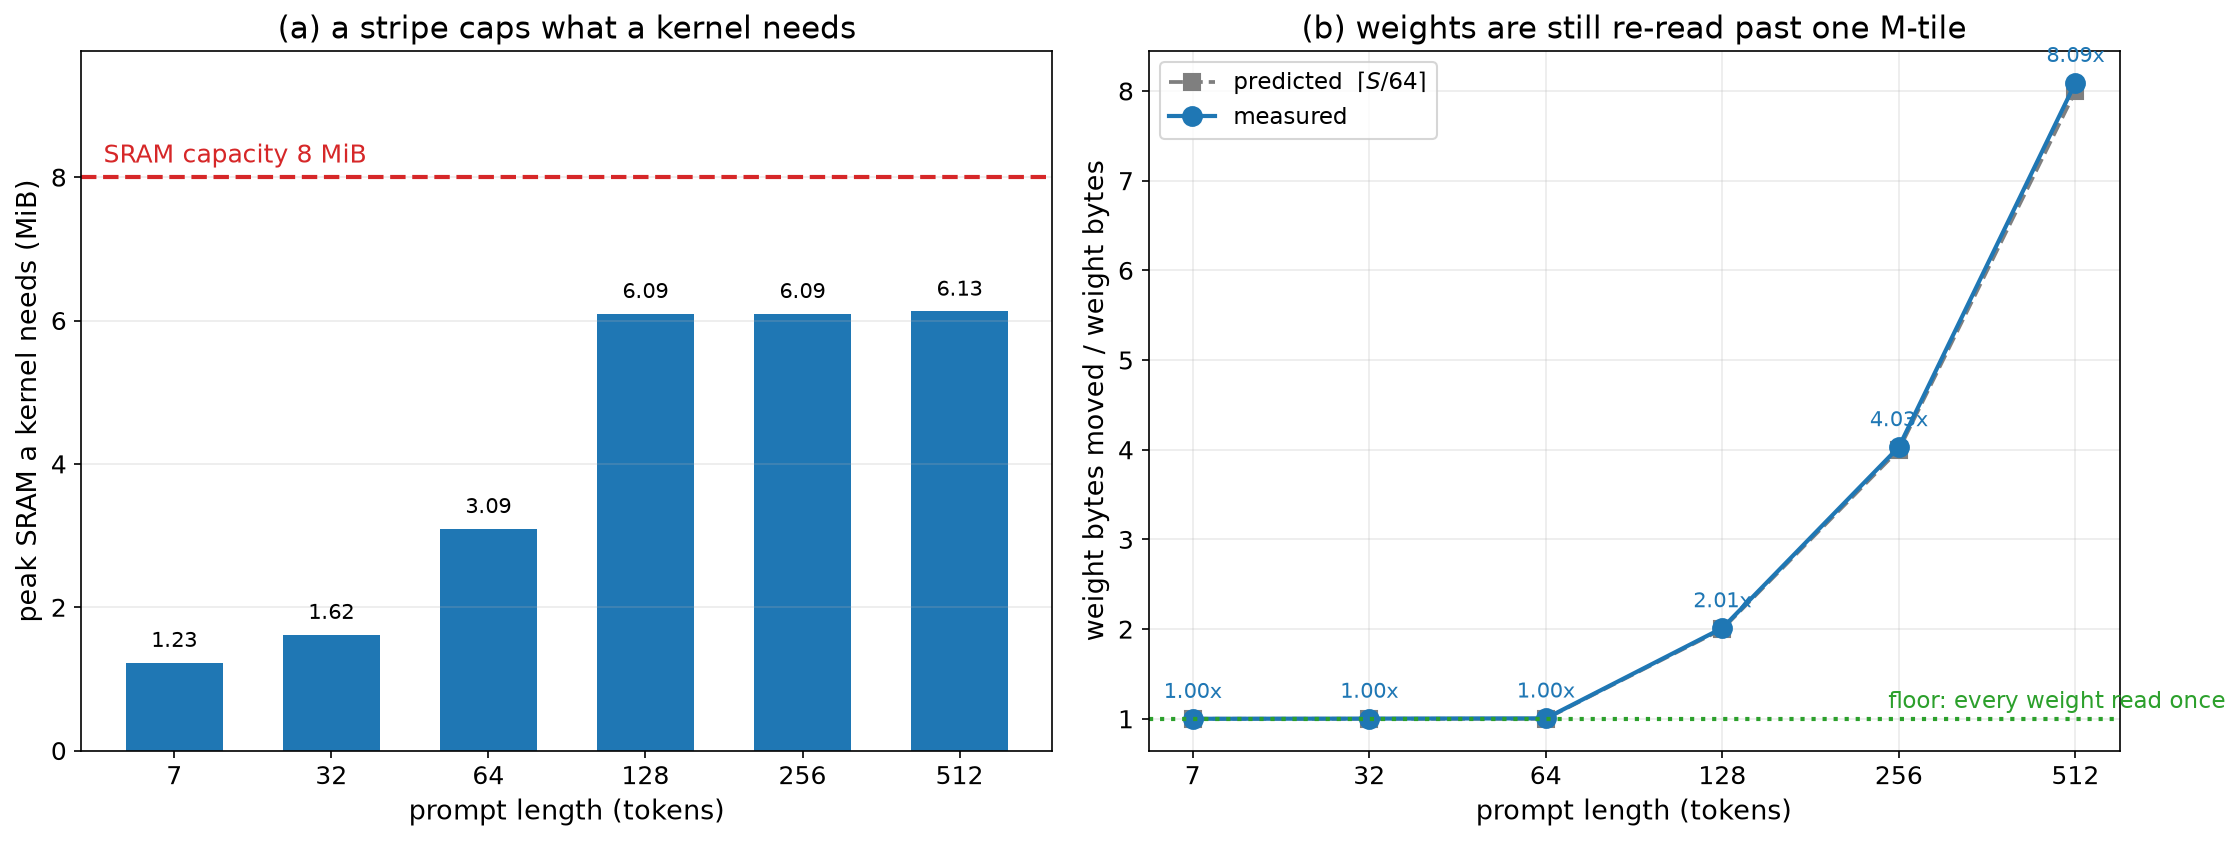
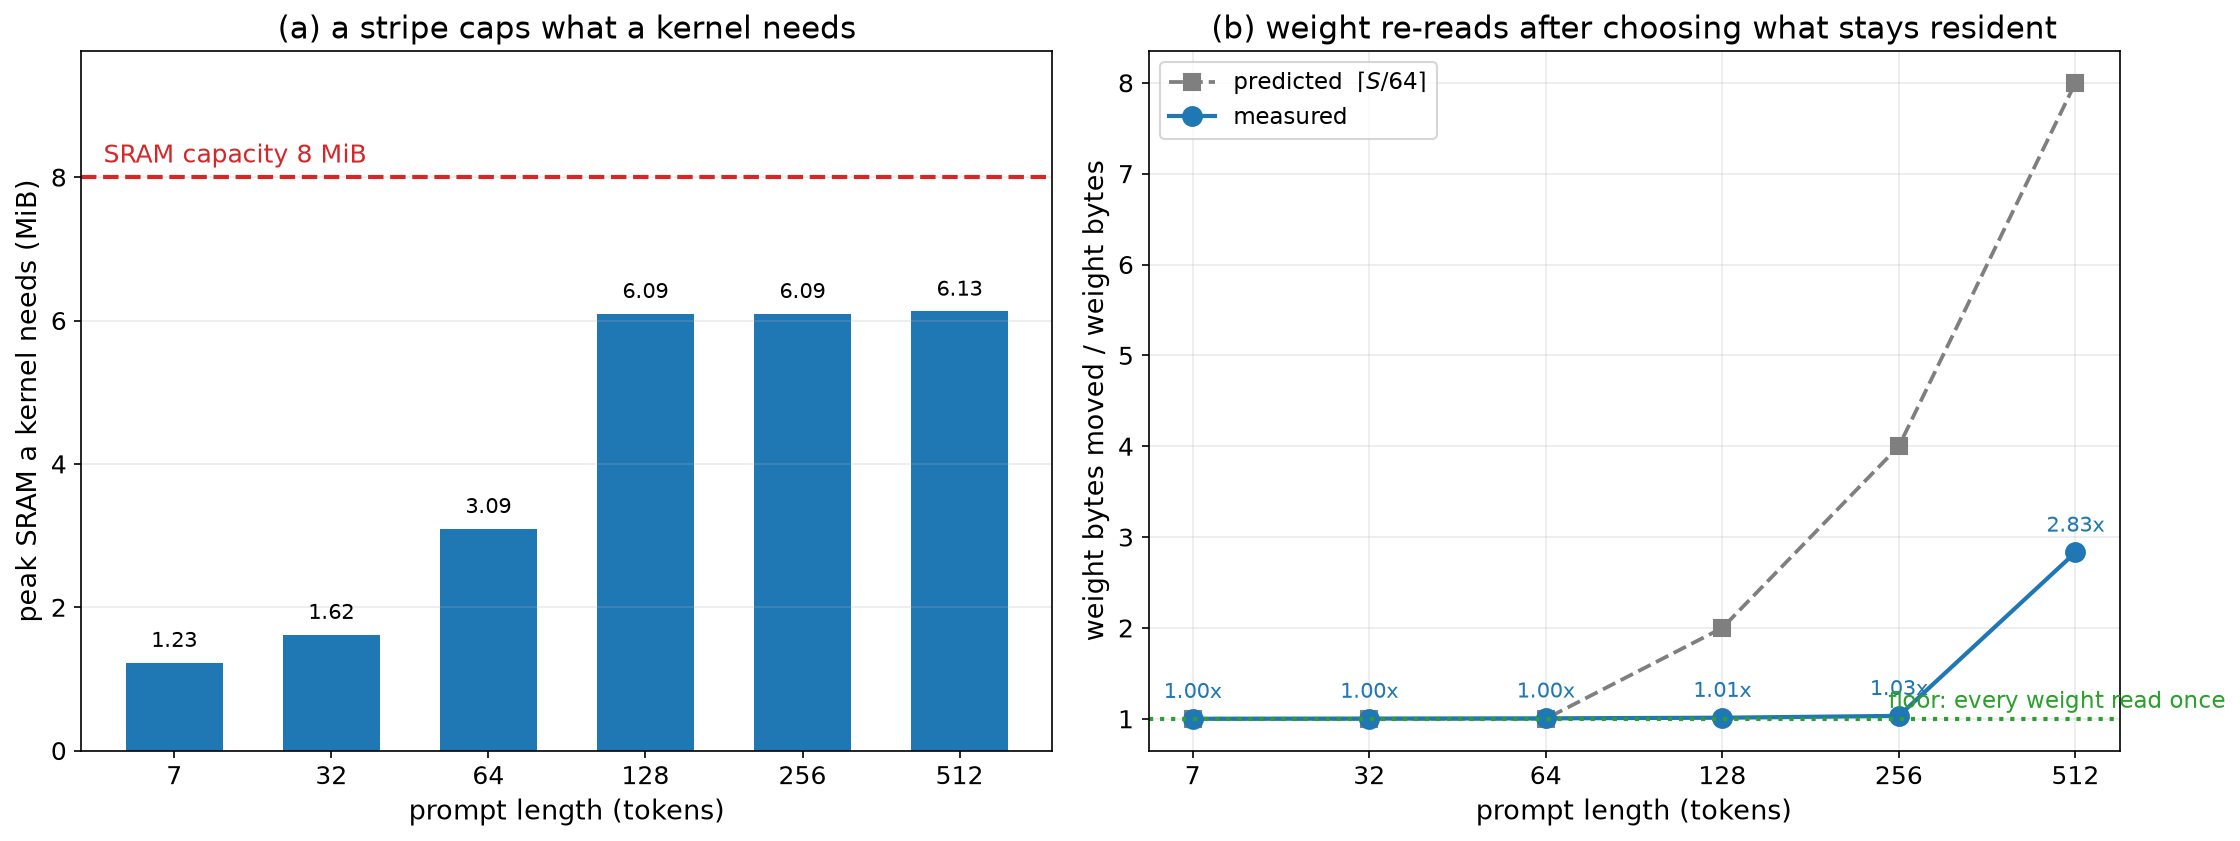
choose which matmul operand stays in SRAM
Both operands were staged at the reduction loop, which is the smallest
footprint and the most re-reads: a kernel used 0.02 MiB of the 8 MiB while
re-reading its activation ceil(N/64) times and its weight ceil(M/64) times.

The hardware settles most of the decision.  One FP32 accumulator means k has
to stay innermost to keep a C tile's MAC chain unbroken, so the only freedom
left is the order of the two outer loops -- which is the same as choosing
which operand is invariant inside and therefore read once.  Three candidates,
each with a closed-form traffic, so _matmul_mapping compares them instead of
searching:

  both at k_o        A: M*K*ceil(N/64)   B: K*N*ceil(M/64)
  input-stationary   A: M*K (once)       B: K*N*ceil(M/Tm)
  weight-stationary  A: M*K*ceil(N/Tn)   B: K*N (once)

The panel size comes from the same feedback loop the stripe uses: start at the
largest, measure the real placement after the TIR passes, halve on overflow.
Below a tile it falls back to the old schedule, which stages one tile of each
and so always fits -- a panel that will not fit is never a link failure.

When M is not a multiple of the tile the mapping is left alone: pad_einsum
already leaves the padded operand resident, so there is nothing to win.  That
is why all four full-depth gates, which run at seq=7, are untouched -- Llama
still links to 15,285,893 words, token 358, cosine 0.9999927.

Measured on one real Llama layer:

  seq   traffic            weight              per token   words
[…]

diff --git a/d_compiler/npu_compiler/npu_link.py b/d_compiler/npu_compiler/npu_link.py
@@ -43,7 +43,7 @@ def _is_matmul(prim):
     return bool(found)
 
 
-def _schedule(module, gvar, prim, tile=64, stripe=None):
+def _schedule(module, gvar, prim, tile=64, stripe=None, mapping=None):
     """Apply the NPU schedule this kernel needs; every kernel ends up staged.
 
     ``stripe`` narrows a non-matmul kernel to that many result rows at a time;
@@ -52,7 +52,9 @@ def _schedule(module, gvar, prim, tile=64, stripe=None):
     name = gvar.name_hint
     try:
         if _is_matmul(prim):
-            scheduled = npu_intrin.schedule_matmul_sram(module, name, tile)
+            hold, panel = mapping if mapping else (None, None)
+            scheduled = npu_intrin.schedule_matmul_sram(module, name, tile,
+                                                        hold, panel)
         elif stripe is None:
             scheduled = npu_intrin.schedule_generic_sram(module, name)
         else:
@@ -166,6 +168,88 @@ def _collect_constants(prim):
     return values
 
 
+def _measure(planned, gvar, prim, profile, scratch_base, slot_count,
+             stripe=None, mapping=None):
+    """Schedule a kernel and report (scheduled, scratch row, buffers, top)."""
+    scheduled = _schedule(planned, gvar, prim, profile.tile, stripe, mapping)
+    elems = _scratch_row(scheduled)
+    buffers = _sram_buffers(scheduled)
+    start = scratch_base + slot_count * elems * 4
+    _, top = _place_sram(buffers, start)
+    return scheduled, elems, buffers, top
+
+
+def _fit_matmul(planned, gvar, prim, profile, scratch_base, slot_count):
+    """Pick the matmul's mapping, narrowing the resident panel until it fits.
+
+    Falling back to the whole-tile schedule is always available -- it stages
+    one tile of each operand, so it fits any budget -- which is why a panel
+    that will not fit is never a link failure here.
+    """
+    budget = profile.sram_nibbles - scratch_base
+    mapping = _matmul_mapping(planned, gvar, profile, budget // 2)
+    while mapping is not None:
+        try:
+            scheduled, elems, buffers, top = _measure(
+                planned, gvar, prim, profile, scratch_base, slot_count,
+                mapping=mapping)
+        except LinkError:
+            break                      # this mapping does not schedule here
+        if top <= profile.sram_nibbles:
+            return scheduled, elems, buffers
+        hold, panel = mapping
+        panel //= 2
+        mapping = (hold, panel) if panel >= profile.tile else None
+    scheduled, elems, buffers, top = _measure(
+        planned, gvar, prim, profile, scratch_base, slot_count)
+    if top > profile.sram_nibbles:
+        raise LinkError(f"{gvar.name_hint}: needs "
+                        f"{top / 2 / 1024 / 1024:.2f} MiB of SRAM")
+    return scheduled, elems, buffers
+
+
+def _matmul_mapping(planned, gvar, profile, budget):
+    """Which operand to keep in SRAM for this matmul, and how much of it.
+
+    The PE tile is fixed and there is one accumulator, so k stays innermost
+    and the only choice left is the order of the two outer loops -- which is
+    the same as choosing which operand is invariant inside, and so read once.
+    Both candidates have a closed-form traffic, so this compares them rather
+    than searching.
+
+    Returns None to keep the whole-tile schedule.  That is the answer whenever
+    M is not a multiple of the tile: pad_einsum then leaves the padded operand
+    resident in SRAM already, so there is nothing left to win.
+    """
+    extents = npu_intrin.matmul_extents(planned, gvar.name_hint)
+    if extents is None:
+        return None
+    rows, cols, depth = extents
+    tile = profile.tile
+    if rows % tile:
+        return None
+    itemsize = 2
+    # the streamed operand still needs a [depth, tile] panel, and the result
+    # one tile; what is left is what the resident operand may use
+    room = budget - (depth * tile + tile * tile) * itemsize
+    if room <= 0:
+        return None
+    span = max(tile, room // (depth * itemsize) // tile * tile)
+
+    def ceil_div(a, b):
+        return -(-a // b)
+
+    now = rows * depth * ceil_div(cols, tile) + depth * cols * ceil_div(rows, tile)
+    hold_a = rows * depth + depth * cols * ceil_div(rows, min(span, rows))
+    hold_b = depth * cols + rows * depth * ceil_div(cols, min(span, cols))
+    best = min(now, hold_a, hold_b)
+    if best == now:
+        return None
+    if best == hold_a:
+        return "A", min(span, rows)
+    return "B", min(span, cols)
+
+
 def _fit_kernel(planned, gvar, prim, profile, scratch_base, slot_count):
     """Schedule a kernel, narrowing its stripe until its buffers fit SRAM.
 
@@ -176,6 +260,9 @@ def _fit_kernel(planned, gvar, prim, profile, scratch_base, slot_count):
     CompactBufferAllocation's shrinking and the kernel's scratch width are
     only known then.
     """
+    if _is_matmul(prim):
+        return _fit_matmul(planned, gvar, prim, profile, scratch_base,
+                           slot_count)
     stripe, rows = None, None
     while True:
         scheduled = _schedule(planned, gvar, prim, profile.tile, stripe)

diff --git a/d_compiler/npu_compiler/npu_intrin.py b/d_compiler/npu_compiler/npu_intrin.py
@@ -186,7 +186,20 @@ def _sram_gemm_impl(a: T.handle, b: T.handle, c: T.handle):
                                  B.access_ptr("r"), sb))
 
 
-def schedule_matmul_sram(mod, func_name, tile=64):
+def matmul_extents(mod, func_name):
+    """(M, N, K) of the kernel's matmul, or None if it has no three-loop nest."""
+    sch = tir.Schedule(mod)
+    try:
+        block = sch.get_block("matmul", func_name=func_name)
+    except Exception:
+        return None
+    loops = sch.get_loops(block)
+    if len(loops) < 3:
+        return None
+    return tuple(int(sch.get(loop).extent) for loop in loops[-3:])
+
+
+def schedule_matmul_sram(mod, func_name, tile=64, hold=None, panel=None):
     """Tile a legalized matmul and stage its operands into SRAM.
 
     The DMA that the hand-written backend inserts by hand is expressed here as
@@ -253,21 +266,48 @@ def schedule_matmul_sram(mod, func_name, tile=64):
         # would give the buffer two writers, which blocks cache_read)
         loops = sch.get_loops(block)
         i, j, k = loops[-3:]
-    i_o, i_i = sch.split(i, [None, tile])
-    j_o, j_i = sch.split(j, [None, tile])
-    k_o, k_i = sch.split(k, [None, tile])
-    sch.reorder(i_o, j_o, k_o, i_i, j_i, k_i)
+    # Where each operand is staged is the whole of the intra-op decision.  The
+    # PE tile is 64x64 and there is one accumulator, so k must stay innermost
+    # to keep a C tile's MAC chain unbroken; that leaves only the order of the
+    # two outer loops, and with it which operand is invariant inside.  Staging
+    # that one at the outer loop reads it once and streams the other past it.
+    if hold is None:
+        # both operands staged at the reduction loop: the smallest footprint
+        # and the most re-reads, and what every kernel got before a budget was
+        # available to say otherwise
+        i_o, i_i = sch.split(i, [None, tile])
+        j_o, j_i = sch.split(j, [None, tile])
+        k_o, k_i = sch.split(k, [None, tile])
+        sch.reorder(i_o, j_o, k_o, i_i, j_i, k_i)
+        staged_at, enclosing = (k_o, k_o), j_o
+    elif hold == "A":
+        # input-stationary: A[panel, K] is read once, B[K, tile] once per row
+        # block
+        m_b, i_r = sch.split(i, [None, panel])
+        i_o, i_i = sch.split(i_r, [None, tile])
+        j_o, j_i = sch.split(j, [None, tile])
+        k_o, k_i = sch.split(k, [None, tile])
+        sch.reorder(m_b, j_o, i_o, k_o, i_i, j_i, k_i)
+        staged_at, enclosing = (m_b, j_o), i_o
+    else:
+        # weight-stationary: the mirror image
+        n_b, j_r = sch.split(j, [None, panel])
+        j_o, j_i = sch.split(j_r, [None, tile])
+        i_o, i_i = sch.split(i, [None, tile])
+        k_o, k_i = sch.split(k, [None, tile])
+        sch.reorder(n_b, i_o, j_o, k_o, i_i, j_i, k_i)
+        staged_at, enclosing = (i_o, n_b), j_o
     write_back = sch.cache_write(block, 0, SRAM_SCOPE)
-    sch.reverse_compute_at(write_back, j_o)
+    sch.reverse_compute_at(write_back, enclosing)
     if unpad is not None:
         # otherwise the padded result stays live across the whole N axis, and
         # a wide output (lm_head is [64, 128256] once M is padded) does not fit
-        sch.reverse_compute_at(unpad, j_o)
+        sch.reverse_compute_at(unpad, enclosing)
     for index in (0, 1):
         if sch.get(block).reads[index].buffer.scope() == SRAM_SCOPE:
             continue                       # already staged (padded operand)
         stage = sch.cache_read(block, index, SRAM_SCOPE)
-        sch.compute_at(stage, k_o)
+        sch.compute_at(stage, staged_at[index])
     # a dequantized weight is a computed producer: without this it holds the
     # WHOLE weight in SRAM (18 MiB at real widths).  Tiling it into the
     # K-loop makes it -- and its int8/scale stages behind it -- one tile at a
@@ -280,9 +320,9 @@ def schedule_matmul_sram(mod, func_name, tile=64):
         dequant = None
     if dequant is not None:
         producers = list(sch.get_producers(dequant))
-        sch.compute_at(dequant, k_o)
+        sch.compute_at(dequant, staged_at[1])
         for producer in producers:
-            sch.compute_at(producer, k_o)
+            sch.compute_at(producer, staged_at[1])
     init = sch.decompose_reduction(block, k_o)
     sch.tensorize(sch.get_loops(block)[-3], "npu_gemm_acc_sram")
     sch.tensorize(sch.get_loops(init)[-2], "npu_fill_zero_sram")

diff --git a/report/figs/0901/plot_traffic.py b/report/figs/0901/plot_traffic.py
@@ -8,9 +8,11 @@ say 1,619,976,421 cells for the 28-layer program).
 The point of these two figures is that every gate we run is seq=7, and at that
 one point the compiler looks optimal: weights are read exactly once and
 activation round trips are 1% of traffic.  Neither stays true as the prompt
-grows.  SRAM occupancy used to grow with it too and stopped fitting at 256;
-striping the elementwise and normalisation kernels caps it at ~6.1 MiB, so
-what is left in these figures is traffic, not capacity.
+grows.  Two pieces of work have landed since the first version of these
+figures: striping the elementwise and normalisation kernels, which caps SRAM
+at ~6.1 MiB (it used to grow past 8 and stop linking at 256), and choosing
+which matmul operand stays resident, which is what pulled weight re-reads back
+towards one.
 
 Colours: categorical blue/green for the two traffic kinds that behave
 differently, red reserved for the capacity violation, grey for recessive
@@ -120,7 +122,7 @@ ax2.set_xticks(x)
 ax2.set_xticklabels(labels)
 ax2.set_xlabel("prompt length (tokens)")
 ax2.set_ylabel("MB moved per token  (log)")
-ax2.set_title("(b) cost per token — the gap is what SRAM planning would close")
+ax2.set_title("(b) cost per token now tracks the floor, until a panel stops fitting")
 ax2.legend()
 ax2.grid(alpha=0.25)
 
@@ -174,7 +176,7 @@ ax2.set_xticks(x)
 ax2.set_xticklabels(labels)
 ax2.set_xlabel("prompt length (tokens)")
 ax2.set_ylabel("weight bytes moved / weight bytes")
-ax2.set_title("(b) weights are still re-read past one M-tile")
+ax2.set_title("(b) weight re-reads after choosing what stays resident")
 ax2.legend(loc="upper left")
 ax2.grid(alpha=0.25)
 

diff --git a/d_compiler/tests/test_npu_link.py b/d_compiler/tests/test_npu_link.py
@@ -167,7 +167,9 @@ def test_tile_staging_uses_one_2d_transfer():
     multirow = [d for d in blocks if d["rows"] > 1]
     assert multirow, "tile staging fell back to one transfer per row"
     widest = max(d["rows"] for d in multirow)
-    assert widest == 64, widest
+    # at least a whole tile per instruction; the resident panel makes it more
+    # than a tile once the mapping keeps an operand in SRAM
+    assert widest >= 64, widest
     print(f"  [PASS] tile staging uses 2D transfers "
           f"({len(multirow)}/{len(blocks)} DMAs, up to {widest} rows each)")
 

diff --git a/report/report_0901.md b/report/report_0901.md
@@ -676,19 +676,17 @@ SRAM은 아예 안 들어가게 된다.**
 
 실 Llama 3.2 3B **한 층**, 프롬프트 길이별:
 
+아래는 세 결함을 진단할 당시의 실측이다(§15.4b·§15.4c에서 (A)와 (B)(C)를
+고친 뒤의 값은 §15.4c 표에 있다).
+
 | seq | weight 읽기 | activation 되읽기 | activation 쓰기 | 합 | SRAM peak |
 |---|---|---|---|---|---|
 | 7 | 203.0 MB | 1.9 MB | 1.7 MB | 207 MB | 1.23 MiB |
 | 32 | 203.4 | 9.0 | 7.9 | 220 | 1.62 |
 | 64 | 204.0 | **217.6** | 16.3 | 438 | 3.09 |
 | 128 | **408.3** | 439.6 | 34.1 | 882 | 6.09 |
-| 256 | 818.2 | 896.5 | 74.6 | 1,789 | 6.09 |
-| 512 | 1,642.6 | **1,862.3** | 174.3 | 3,679 | 6.13 |
-
-seq 256·512는 한때 **링크 자체가 실패**했다((A) 항목). stripe 스케줄을 넣은
-뒤로 SRAM peak이 **6.1 MiB에서 평평**해져 용량은 더 이상 제약이 아니다.
-그리고 seq 512에서는 **activation(2,037 MB)이 weight(1,643 MB)를 넘어선다** —
-활성화 트래픽만 S에 비례하기 때문이다.
+| 256 | — | — | — | — | **9.00 → 링크 실패** |
+| 512 | — | — | — | — | **9.04 → 링크 실패** |
 
 ![프롬프트 길이별 트래픽](figs/0901/g_traffic_by_seq.png)
 
@@ -809,6 +807,48 @@ s.t.       panel(Tm,Tn) + Σ 상주 텐서 + scratch ≤ 8 MiB
 `analyze_traffic.py`가 그 기준선이다 — 실행 없이 링크만으로 트래픽과 SRAM
 peak을 내므로 A/B에 쓸 수 있다.
 
+### 15.4c (B)(C) 해결 — matmul의 상주 피연산자 선택 (2026-09-07)
+
+`schedule_matmul_sram`은 두 피연산자를 **모두 최내곽(`k_o`)에 스테이징**했다.
+발자국은 최소(0.02 MiB)이고 재적재는 최대인 선택이다. 하드웨어가 나머지를
+정해 준다 — 누산기가 1개라 `k`가 최내곽이어야 하므로, 남는 자유도는 **바깥 두
+루프의 순서**뿐이고 그것이 곧 **어느 피연산자가 안쪽에서 불변인가**다.
+
+| 후보 | SRAM | A 트래픽 | B 트래픽 |
+|---|---|---|---|
+| 현재 (둘 다 `k_o`) | `2·(2·64²)` | `M·K·⌈N/64⌉` | `K·N·⌈M/64⌉` |
+| Input-Stationary | `2·(Tm·K + 64·K + 64²)` | `M·K` (1회) | `K·N·⌈M/Tm⌉` |
+| Weight-Stationary | `2·(K·Tn + 64·K + 64²)` | `M·K·⌈N/Tn⌉` | `K·N` (1회) |
+
+후보가 셋뿐이라 **탐색이 아니라 세 식의 비교**로 정한다(`_matmul_mapping`).
+패널 크기는 stripe와 같은 피드백 루프로 정한다 — 최대에서 시작해 **실제 배치를
+재어** 넘으면 절반으로 줄이고, 타일보다 작아지면 기존 스케줄로 되돌아간다
+(기존 스케줄은 타일 하나씩이라 **항상 들어가므로 실패가 없다**).
+
+**M이 64의 배수가 아니면 그대로 둔다.** `pad_einsum`이 패딩한 피연산자를 이미
+SRAM에 상주시키므로 얻을 게 없기 때문이다. seq=7인 전체 깊이 게이트 4종이
+**한 word도 바뀌지 않는** 이유가 이것이다.
+
+실측 (실 Llama 1층):
+
+| seq | 전체 트래픽 | weight | 토큰당 | word |
+|---|---|---|---|---|
+| 64 | 438 → **239 MB** | 204.0 → 204.0 (1회) | 6.8 → **3.7 MB** | 576,307 → 492,186 |
+| 128 | 882 → **278** | 408.3 → **205.4** (1회) | 6.9 → **2.2** | 1,137,274 → 968,649 |
+| 256 | 1,789 → **367** | 818.2 → **209.5** (1회) | 7.0 → **1.4** | 2,266,635 → 1,925,163 |
+| 512 | 3,679 → **1,334** | 1,642.6 → **574.7** | 7.2 → **2.6** | 4,553,649 → 4,028,224 |
+
+**토큰당 비용이 처음으로 프롬프트 길이에 따라 내려간다**(그림 (b)). 링크
+시간도 함께 줄었다(seq 512에서 56.0s → 21.4s) — 전송이 더 크고 적어졌기 때문.
+
+seq 512에서 2.6 MB/token으로 되튀는 것은 **FFN down-projection(K=8192)의
+패널이 안 들어가기** 때문이다: `[512, 8192]` fp16 = 8.4 MiB로 예산을 넘겨
+패널이 줄고 weight를 다시 읽는다. 이건 커널 간 상주(inter-op)로 예산을
+확보하면 완화된다 — §15.5의 다음 항목.
+
+정확성: `tests/test_long_prompt.py`가 seq 64~512에서 cosine 0.999995~0.999997
+유지, 28층 게이트 15,285,893 word · token 358 · cosine 0.9999927 불변.
+
 ## 16. 양자화(W8A16): Q/DQ 그래프는 어떻게 처리되나
 
 ### 16.1 구조로 해결한 Q/DQ — "fusion pass"가 필요 없게 설계
@@ -886,12 +926,13 @@ quantized [7,3072]×[3072,3072]  → 링크 성공, C-model 실행
    기존 커널의 word는 불변(28층 게이트 15,285,893 word 동일).
    남은 것은 트래픽이지 용량이 아니다.
 
-2. **B1: weight·activation 재적재 (§15.4)** — 실측: weight는 seq 128에서
-   **2.01×**(예측식 ⌈S/64⌉ 그대로), activation 피연산자는 seq 64에서
-   **217.6 MB/층**(패딩이 없어 열 타일마다 재적재 — 역설적으로 패딩이
-   필요한 seq에서는 1회로 끝난다). 15.2의 **86% 노는 SRAM**이 해법 공간이고,
-   핵심은 **staging 단위를 PE 타일(64)에서 분리**하는 것이다(§15.5의 2번).
-   양자화와 결합하면(§16.2의 −31%와 곱) 효과가 복리다.
+2. ~~B1: weight·activation 재적재~~ → **해결 (§15.4c, 2026-09-07)**.
+   matmul의 상주 피연산자를 세 후보의 트래픽 비교로 고르고, 패널 크기는 실제
+   배치를 재는 피드백 루프로 정한다. 실측 토큰당 비용 **6.9 → 1.4 MB**
+   (seq 256), 전체 트래픽 **1,789 → 367 MB**. 게이트 4종은 불변.
+   남은 것은 **FFN down-projection(K=8192)의 패널이 seq 512에서 안 들어가
+   weight를 다시 읽는 것**(2.6 MB/token으로 되튐) — 커널 간 상주로 예산을
+   확보하면 완화된다.
 3. ~~링크 시간~~ → **완료 (§11.1, §7.1). 전체 모델 8,147s → 127.0s, 64.1배.**
    decode의 context별 재링크는 §18의 고정-capacity 설계로 해소(모델당 링크
    2회, step 재링크 0회)했고, 최초 링크도 28층 기준 2시간 16분 → **2분 7초**가
